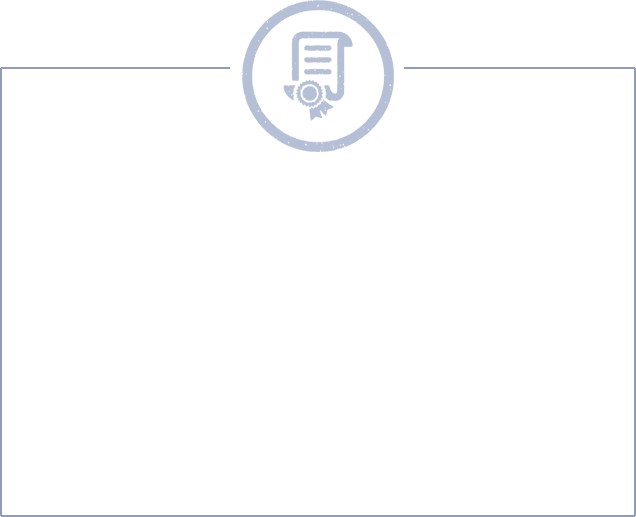
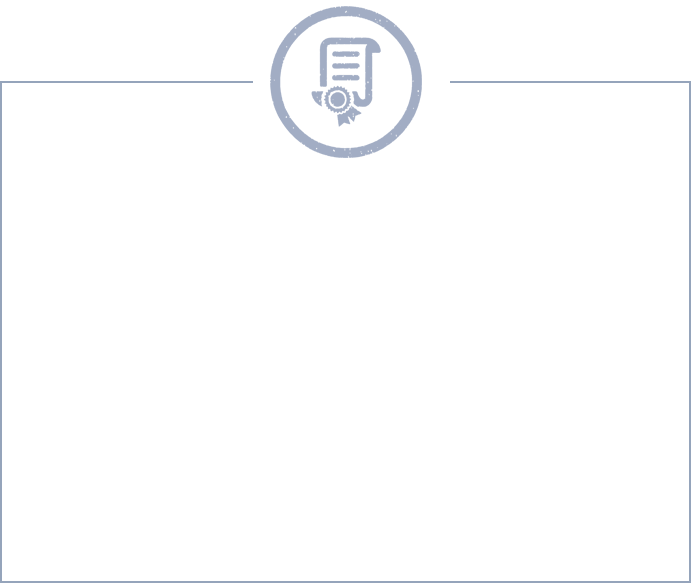
交易所授权及免费抵押图片修改

Changed region(s): [[0.0, 0.0, 1.0, 1.0]]

diff --git a/app/route/Wallet/AuthExchange.js b/app/route/Wallet/AuthExchange.js
@@ -223,19 +223,17 @@ const styles = StyleSheet.create({
     head: {
         // flexDirection: "column",
         paddingVertical: ScreenUtil.autoheight(41),
-        paddingHorizontal: ScreenUtil.autowidth(30)
+        paddingHorizontal: ScreenUtil.autowidth(10)
     },
     bgout: {
-        
-        paddingTop: ScreenUtil.autoheight(60),
-        paddingHorizontal: ScreenUtil.autowidth(10),
-        width: (ScreenWidth - ScreenUtil.autowidth(60)),
-        height: (ScreenWidth)*0.683,
-        // height: (ScreenWidth - ScreenUtil.autowidth(20))*0.8437,
+        paddingTop: ScreenUtil.autoheight(70),
+        paddingHorizontal: ScreenUtil.autowidth(20),
+        width: ScreenWidth - ScreenUtil.autowidth(20),
+        height: (ScreenWidth - ScreenUtil.autowidth(20))*0.8437,
     },
     Explaintext: {
         fontSize: ScreenUtil.setSpText(14),
-        marginTop: ScreenUtil.autoheight(40),
+        marginTop: ScreenUtil.autoheight(60),
         lineHeight: ScreenUtil.autoheight(20), 
     },
     Explaintextmiddle: {
